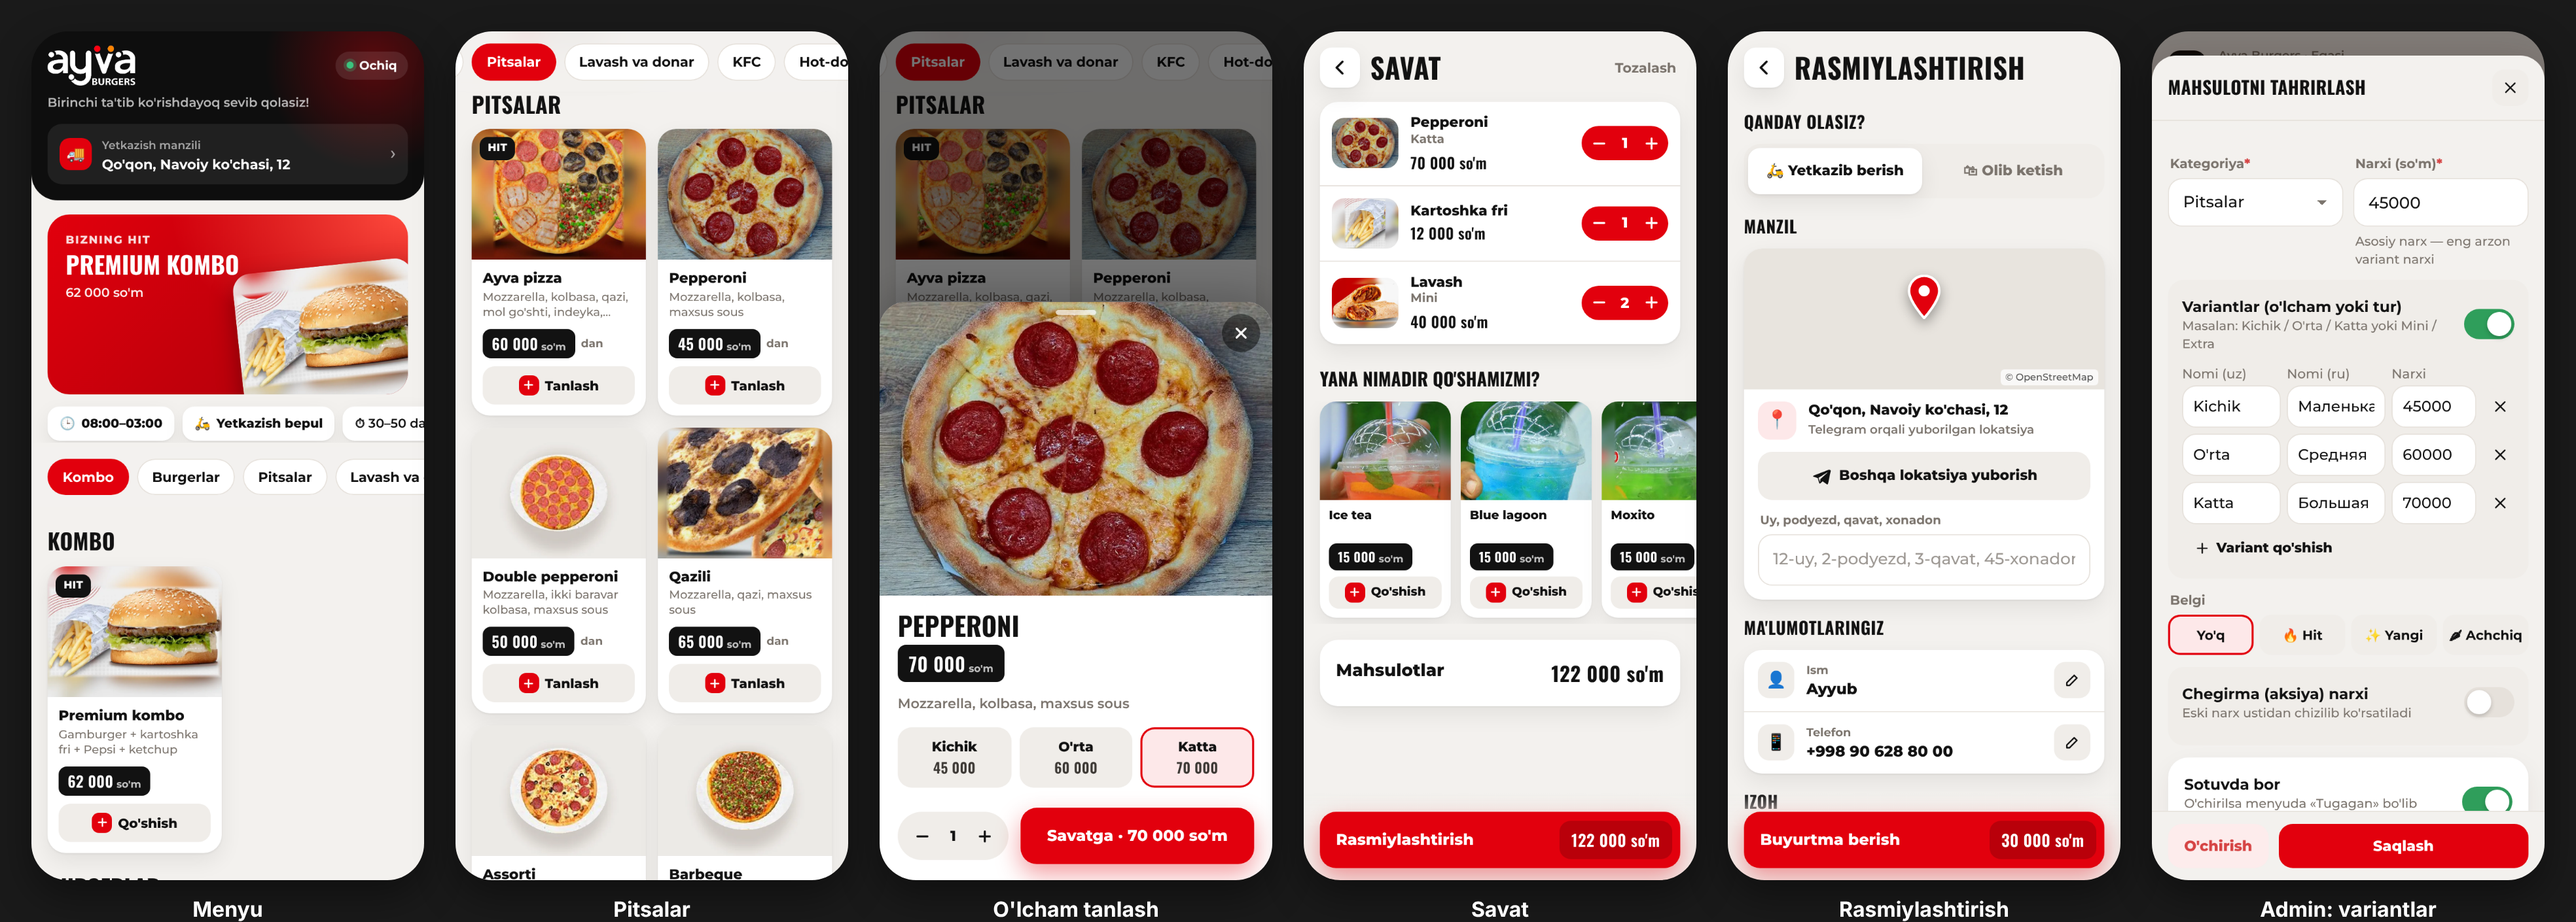
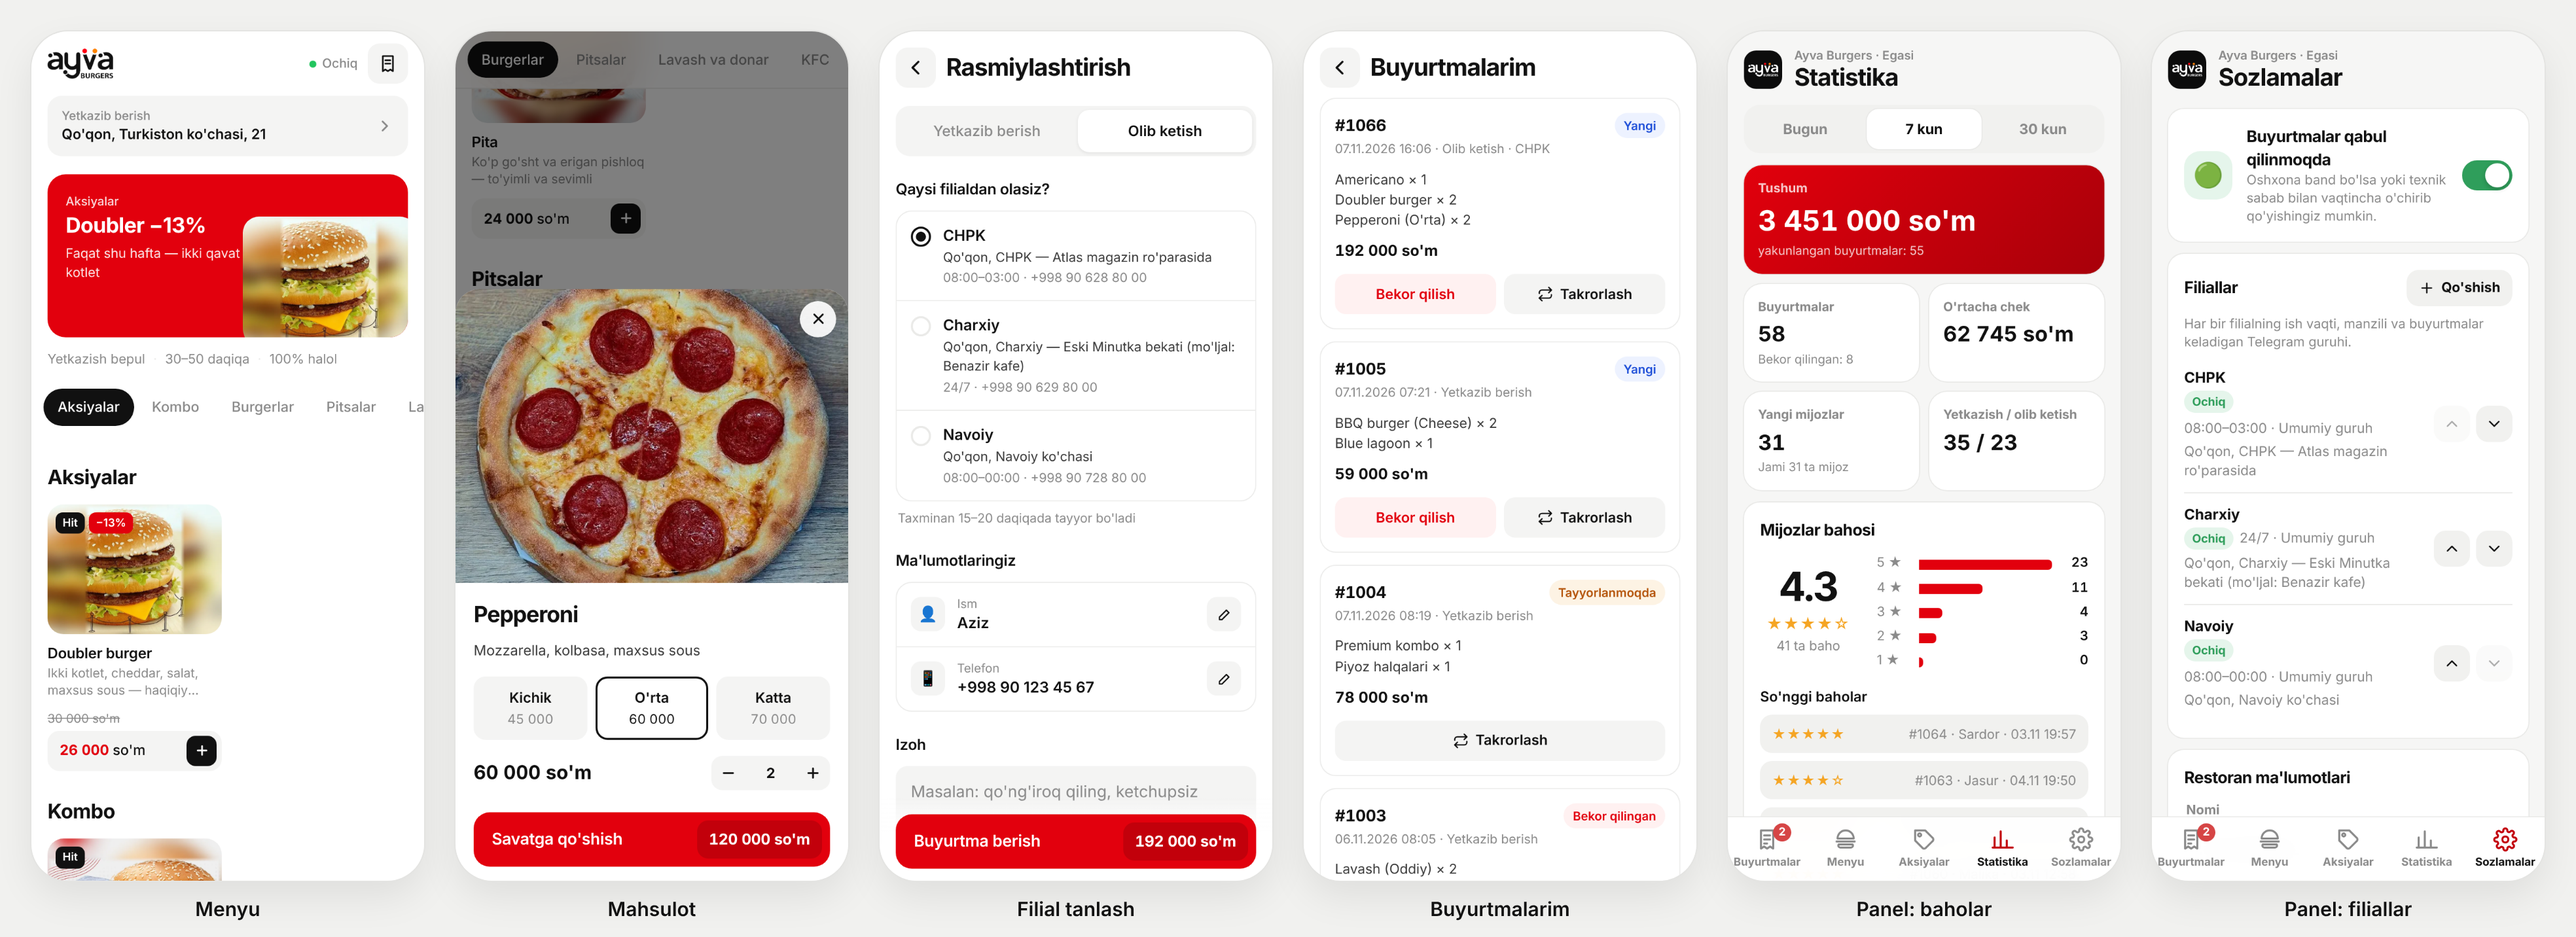
Docs: new onboarding, branches, ratings, cash-only; refreshed preview
Claude-Session: https://claude.ai/code/session_018siSDQ8cruCXJn2hgbBNgx

diff --git a/README.md b/README.md
@@ -1,8 +1,8 @@
 # 🍔 Ayva Burgers — Telegram yetkazib berish boti
 
 Telegram bot, Mini App (bot ichida ochiladigan menyu) va admin panel. Mijoz rasmli menyudan taom tanlaydi,
-savatga soladi, manzil va lokatsiyani belgilaydi, buyurtma beradi. Buyurtma darhol xodimlar guruhiga va
-admin panelga tushadi. Restoran egasi menyu, narx, rasm, aksiya va sozlamalarni panelning o'zidan boshqaradi —
+savatga soladi, manzil yoki olib ketish filialini belgilaydi, buyurtma beradi. Buyurtma darhol tegishli
+filialning xodimlar guruhiga va admin panelga tushadi. Restoran egasi menyu, narx, rasm, aksiya va sozlamalarni panelning o'zidan boshqaradi —
 dasturchi kerak emas.
 
 ![Ayva Burgers Mini App va admin panel](docs/preview.png)
@@ -10,31 +10,41 @@ dasturchi kerak emas.
 ## Imkoniyatlar
 
 **Mijoz uchun (o'zbekcha / ruscha)**
-- `/start` → til tanlash → telefon raqamni yuborish → bosh menyu
+- Birinchi kirishda 3 qadam: **telefon → ism → manzil** (lokatsiya, yozilgan manzil yoki «🛍 Olib ketaman» + filial),
+  keyin menyu. Hammasi eslab qolinadi — keyingi safar «🍔 Buyurtma berish» saqlangan manzil bilan darhol menyuni
+  ochadi («📍 Manzilni o'zgartirish», «🛍 Olib ketaman» tugmalari bilan)
+- Mini App — minimalistik dizayn (Inter shrifti, oq/qora, bitta qizil aksent), yorug' va qorong'i rejim
 - Mini App: aksiya bannerlari, «🔥 Aksiyalar» bo'limi, kategoriyalar, rasmli kartalar, chegirma narxlari
   (eski narx chizilgan), «Hit / Yangi / Achchiq» belgilari, savat
 - Bepul yetkazishgacha qolgan summa ko'rsatkichi, sous/ichimlik takliflari
-- «🍔 Buyurtma berish» → bot Telegram'ning o'z tugmasi bilan lokatsiya so'raydi («📍 Lokatsiyani yuborish»,
-  «🏠 Oldingi manzil» yoki «🛍 Olib ketaman»); manzil OpenStreetMap orqali matnga aylantiriladi
-- Mini App'da ism, telefon va lokatsiya kartochka ko'rinishida (xarita bilan); raqam Telegram orqali
-  bir tugmada yuboriladi, lokatsiyani o'zgartirish ham bot chatidagi tugma orqali
+- Lokatsiya Telegram'ning o'z tugmasi bilan yuboriladi va OpenStreetMap orqali matnga aylantiriladi
+- Mini App'da ism, telefon va manzil kartochka ko'rinishida (xarita bilan); olib ketishda filial tanlanadi
+  (ish vaqti va «hozir yopiq» belgisi bilan); yetkazib berishda eng yaqin ochiq filial avtomatik tanlanadi
+- **Filiallar**: CHPK, Charxiy (24/7), Navoiy — har birining ish vaqti, manzili, telefoni va o'z xodimlar guruhi
+- **📦 Buyurtmalarim**: holati, 🔁 bir tugmada takrorlash (savatga tushadi), hali qabul qilinmagan buyurtmani
+  ❌ bekor qilish (guruhga xabar boradi)
+- **⭐ Baho**: buyurtma yakunlangach mijoz 1–5 baho qo'yadi; 3 va undan pastida «nima yoqmadi?» deb so'raladi —
+  baho va izoh filial guruhiga keladi, panelda statistikasi ko'rinadi
 - Variantli mahsulotlar: pitsa (kichik/o'rta/katta), lavash (mini/oddiy/extra), hot-dog (klassik/cheese/…)
-- To'lov: naqd pul (Click va Payme «Tez orada»)
+- To'lov: faqat naqd pul (kuryerga yoki kassada)
 - Ish vaqtidan tashqari yoki admin to'xtatganda buyurtma qabul qilinmaydi (menyuni ko'rish mumkin)
-- «📦 Buyurtmalarim», «ℹ Biz haqimizda», «📞 Aloqa», «⚙ Sozlamalar»
+- Bosh menyu: «🍔 Buyurtma berish», «📦 Buyurtmalarim», «🏪 Filiallar», «📞 Aloqa»,
+  «⚙ Sozlamalar» (ism, raqam, manzil, tilni o'zgartirish)
 
 **Admin panel** (botda `/panel` yoki «🛠 Admin panel» tugmasi)
-- 📋 **Buyurtmalar** — faol buyurtmalar, bir tugma bilan holat o'zgartirish, tarix, raqam/telefon bo'yicha qidiruv.
-  Yangi buyurtma kelsa panel o'zi xabar beradi
+- 📋 **Buyurtmalar** — faol buyurtmalar, bir tugma bilan holat o'zgartirish, tarix, raqam/telefon bo'yicha qidiruv,
+  filial bo'yicha filtr, mijoz bahosi va izohi. Yangi buyurtma kelsa panel o'zi xabar beradi
 - 🍔 **Menyu** — mahsulot qo'shish/tahrirlash/o'chirish: rasm (telefondan yuklanadi, avtomatik kichraytiriladi),
   nomi va tarkibi (uz/ru), narx, kategoriya, belgi. «Sotuvda bor» (stop-list) va «Menyuda ko'rsatish» o'tkazgichlari,
   tartibni o'zgartirish. Kategoriyalarni qo'shish, nomlash, rasmini tanlash, yashirish
 - 🔥 **Aksiyalar** — chegirma narxi (sana bilan yoki muddatsiz, −10/−20/−30% tugmalari),
   menyu tepasida aylanadigan bannerlar (rasm yoki sarlavha, bosilganda mahsulot yoki kategoriyani ochadi)
-- 📊 **Statistika** — bugun / 7 / 30 kun: tushum, buyurtmalar, o'rtacha chek, yangi mijozlar,
-  kunlik tushum grafigi, soatlar bo'yicha yuklama, eng ko'p sotilgan mahsulotlar
-- ⚙ **Sozlamalar** — buyurtmalarni vaqtincha to'xtatish, restoran ma'lumotlari, manzil va lokatsiya, ish vaqti,
-  yetkazish narxi, bepul yetkazish chegarasi, minimal buyurtma, to'lov turlari, adminlar ro'yxati,
+- 📊 **Statistika** — bugun / 7 / 30 kun: tushum, buyurtmalar, o'rtacha chek, yangi mijozlar, o'rtacha baho
+  (1–5 taqsimoti va so'nggi izohlar), filiallar kesimida, kunlik tushum grafigi, soatlar bo'yicha yuklama,
+  eng ko'p sotilgan mahsulotlar
+- ⚙ **Sozlamalar** — buyurtmalarni vaqtincha to'xtatish, **filiallar** (nomi, manzili, telefoni, ish vaqti,
+  xaritadagi nuqtasi — Google/Yandex havolasini qo'yish kifoya, buyurtmalar guruhi), restoran ma'lumotlari,
+  yetkazish narxi, bepul yetkazish chegarasi, minimal buyurtma, adminlar ro'yxati,
   mijozlarga xabar (rasm + matn + «Menyuni ochish» tugmasi)
 - Telefonda Telegram ichida ochiladi; kompyuterda — bot beradigan bir martalik havola orqali (parolsiz)
 
@@ -49,10 +59,12 @@ dasturchi kerak emas.
 Cheklovlar serverda tekshiriladi — kassir narxni yoki menyuni hatto to'g'ridan-to'g'ri so'rov bilan ham o'zgartira olmaydi.
 
 **Xodimlar guruhi**
-- Har bir buyurtma: mijoz, telefon, manzil, xarita havolasi, mahsulotlar, summa
+- Buyurtma filialning o'z guruhiga keladi (panel → Sozlamalar → Filiallar → «Buyurtmalar guruhi»).
+  Guruh belgilanmagan filial buyurtmalari umumiy `ADMIN_CHAT_ID` guruhiga tushadi
+- Har bir buyurtma: filial, mijoz, telefon, manzil, xarita havolasi, mahsulotlar, summa
 - Tugmalar: ✅ Qabul qilish → 🚗 Yo'lga chiqdi / 🛍 Tayyor → 🏁 Yakunlash, ❌ Bekor qilish
   (panel bilan sinxron — qayerda bosilsa ham ikkalasida yangilanadi)
-- `/active`, `/stats`, `/stoplist`, `/broadcast`, `/panel`, `/id`
+- `/active` (filial guruhida — faqat o'sha filial buyurtmalari), `/stats`, `/stoplist`, `/broadcast`, `/panel`, `/id`
 - Guruh — ishonchli xodimlar xonasi: guruhdagi hamma buyurtma tugmalarini, `/active`, `/stats` va `/stoplist` ni
   ishlata oladi. `/broadcast` (mijozlarga reklama) faqat ega va administratorga; botning shaxsiy chatida
   kassirga `/stats` ham yopiq
@@ -94,6 +106,9 @@ tests/            avtomatik testlar
    Ikkalasini server sozlamalariga qo'yib, qayta ishga tushiring.
 5. Botga `/panel` yozing — admin panel ochiladi. Boshqa xodimlarni panel → Sozlamalar → Adminlar orqali
    qo'shasiz: Telegram ID (xodim botga `/id` yozib biladi) va rol — Administrator yoki Kassir.
+6. Har bir filial uchun alohida guruh kerak bo'lsa (CHPK, Charxiy, Navoiy): har biriga botni qo'shing,
+   guruhda `/id` yozing va panel → Sozlamalar → Filiallar → filial → «Buyurtmalar guruhi»ga qo'ying.
+   Server sozlamalarini o'zgartirish yoki qayta ishga tushirish shart emas.
 
 ## 2. Serverga joylash
 
@@ -161,11 +176,8 @@ Hammasi admin paneldan o'zgartiriladi, serverni qayta ishga tushirish kerak emas
   Keyin ular o'qilmaydi, menyu bazada saqlanadi.
 - Mahsulot rasmlari: telefondan yoki kompyuterdan yuklang (JPG/PNG/WebP, 12 MB gacha). Server ularni
   1200 px gacha kichraytirib, WebP'ga o'giradi. Rasm bo'lmasa kategoriyaning chizilgan rasmi chiqadi.
-- **Logo va ranglar**: logolar — `webapp/img/logo-light.png` (qora fon uchun), `logo-dark.png`, `logo-badge.png`;
-  brend ranglari — `webapp/styles.css` boshidagi `--brand` (qizil) va `--head` (qora).
-
-## 4. Click va Payme (keyingi bosqich)
-
-Hozir ular Mini App va panelda «Tez orada» bo'lib turibdi va yoqib bo'lmaydi. Ulash uchun Click/Payme bilan
-shartnoma tuziladi va @BotFather → Payments bo'limidan provayder tokeni olinadi. Shundan so'ng to'lov
-Telegram ichida (`openInvoice`) bo'ladi — buning uchun to'lov kodi qo'shiladi.
+- **Filiallar** `data/store.json` dagi `branches` ro'yxatidan birinchi ishga tushishda yuklanadi; keyin paneldan
+  boshqariladi. Navoiy filialining aniq manzili va uchala filialning xaritadagi nuqtasini panelda kiriting —
+  nuqta bo'lsa, yetkazib berish buyurtmasi mijozga eng yaqin ochiq filialga tushadi.
+- **Logo va ranglar**: logolar — `webapp/img/logo-dark.png` (oq fon uchun), `logo-light.png` (qora fon uchun),
+  `logo-badge.png`; brend rangi — `webapp/styles.css` boshidagi `--brand` (qizil).
